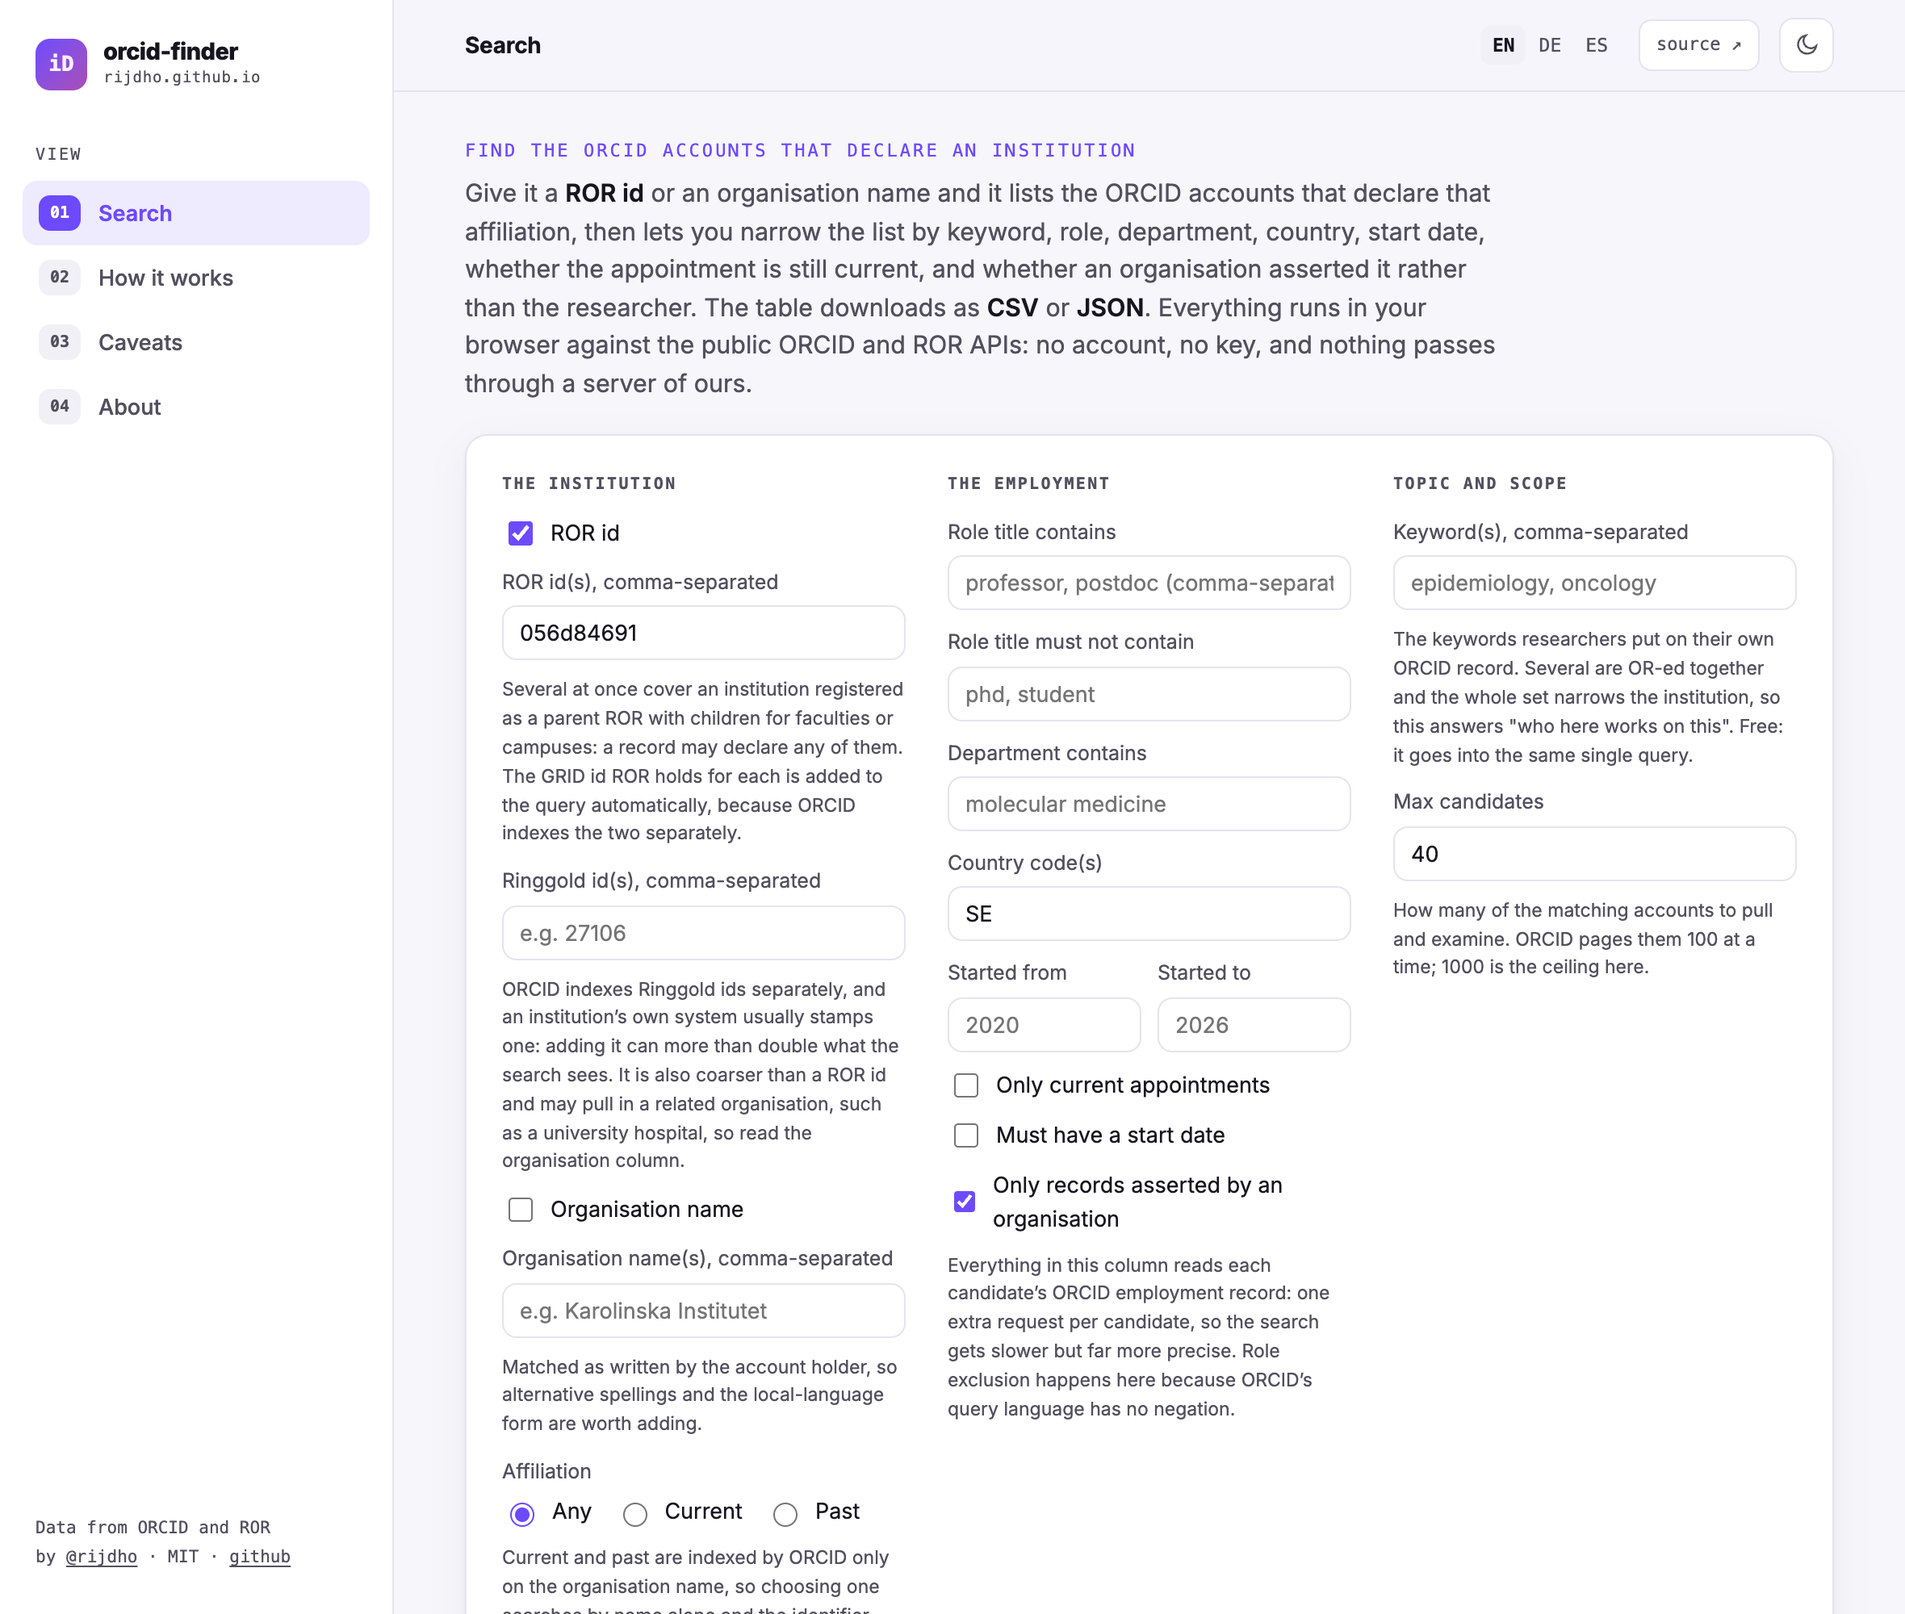
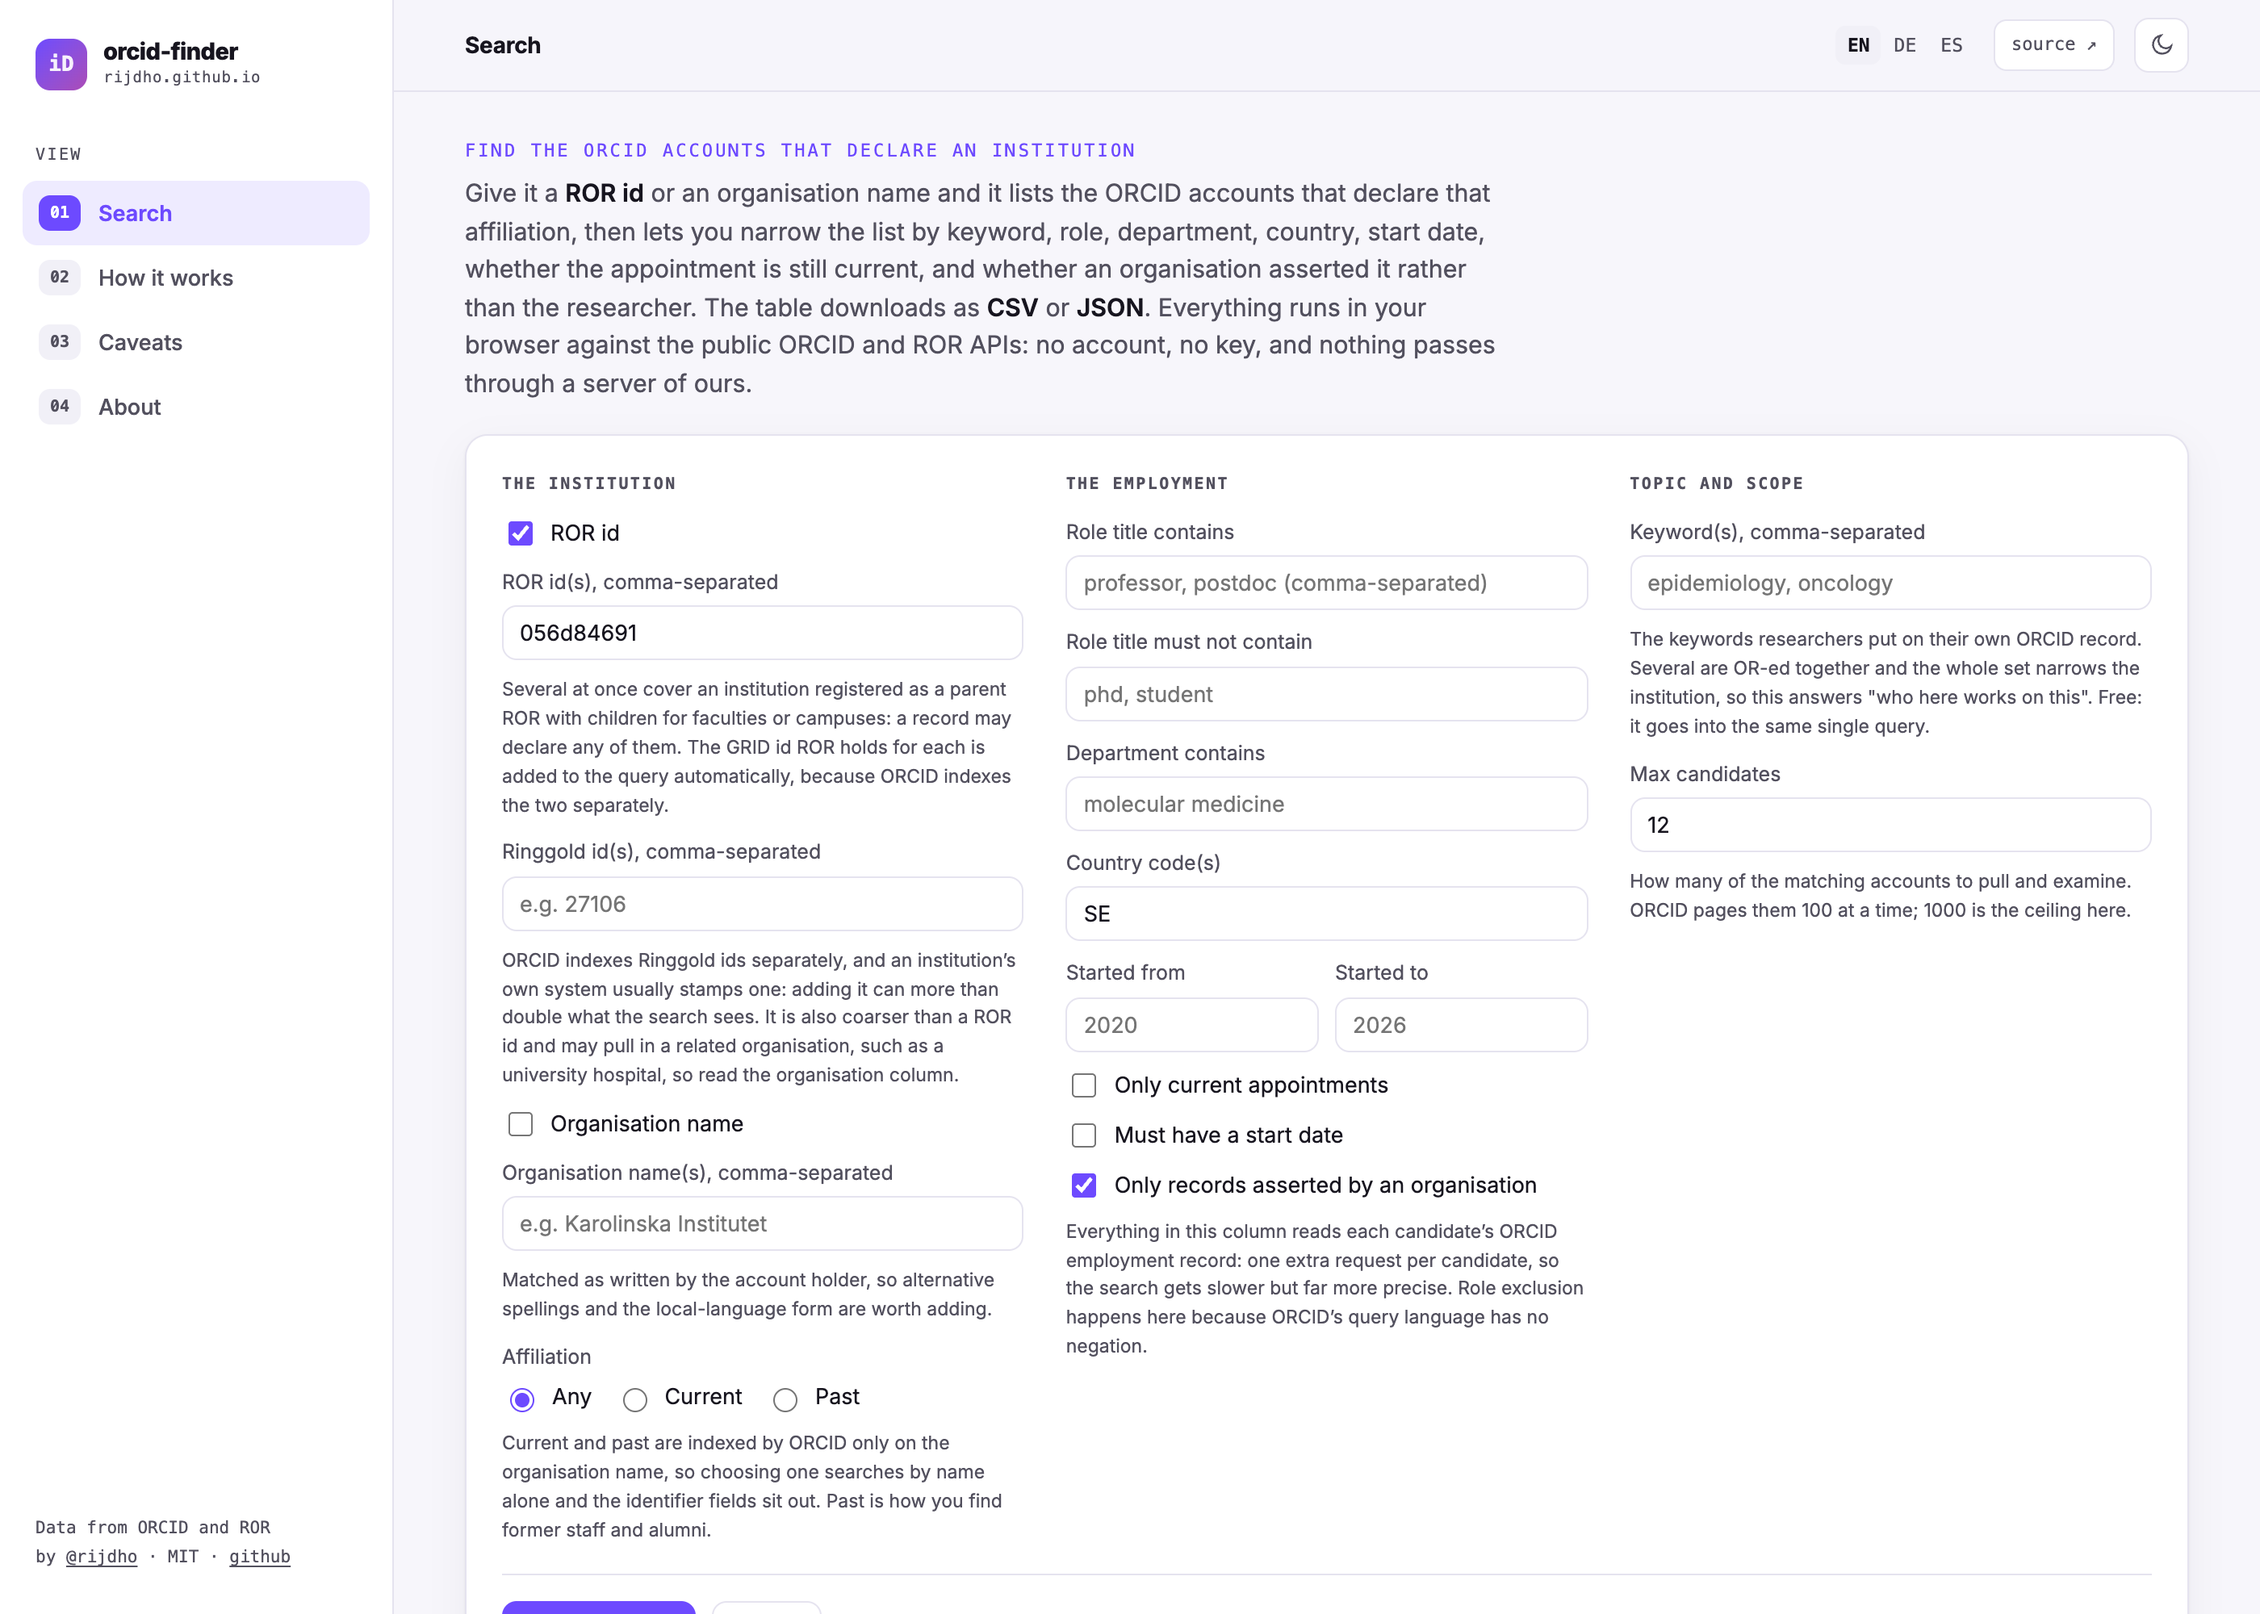
Remove the dead code the audit found, and pin the audit as tests
Four orphans, none of them harmful and all of them noise:

  ORCID_RE      carried over from the code this tool was lifted out of, and
                referenced nowhere since.
  childIds      written for a parent/child ROR expansion that was never built.
                It even had a test, which is the worse case: a tested function
                nobody calls reads as load-bearing.
  .muted        copied in with the shell stylesheet, never applied.
  isValidRor    orphaned when the validation moved into validateOptions, which
                had grown its own copy of the rule. validateOptions now calls
                the exported helper, so a valid ROR id has one definition again.

The audit is now four tests rather than a thing someone remembers to do. Each
one catches a failure that is silent at runtime: an element id the script reads
but the page does not have throws during module evaluation and blanks the page,
which is exactly how the cache-busting bug presented; a badge class with no rule
renders as an unstyled pill that reads like a glitch; a locale key nobody asks
for gets translated three times and shown never. All four were confirmed by
injecting the defect they claim to catch.

The screenshots were shot at 1180 pixels, where the nine-column result table
scrolls its last column out of frame, so the image had stopped supporting the
alt text describing it. They are shot at 1400 now, a normal laptop width where
[…]

diff --git a/src/discover.js b/src/discover.js
@@ -21,8 +21,6 @@ import { fetchRorFacts } from './ror.js?v=4';
 /** A ROR id is nine characters, starts with 0, and uses a crockford-ish alphabet. */
 export const ROR_RE = /^0[a-hj-km-np-z0-9]{8}$/;
 
-export const ORCID_RE = /^\d{4}-\d{4}-\d{4}-\d{3}[\dX]$/;
-
 /** A Ringgold id is a bare number. They run to eight digits today. */
 export const RINGGOLD_RE = /^\d{1,9}$/;
 
@@ -152,7 +150,7 @@ export function activeCriteria(o) {
  */
 export function validateOptions(o) {
   const opts = normaliseOptions(o);
-  const badRor = opts.rors.find((r) => !ROR_RE.test(r));
+  const badRor = opts.rors.find((r) => !isValidRor(r));
   if (badRor) return { key: 'badRor', id: badRor };
   const badRinggold = opts.ringgolds.find((r) => !RINGGOLD_RE.test(r));
   if (badRinggold) return { key: 'badRinggold', id: badRinggold };

diff --git a/src/ror.js b/src/ror.js
@@ -55,14 +55,6 @@ export function gridId(record) {
   return e?.preferred ?? e?.all?.[0] ?? null;
 }
 
-/** The child organisations ROR records for this id, as bare ROR ids. */
-export function childIds(record) {
-  return (record?.relationships ?? [])
-    .filter((r) => r.type === 'child')
-    .map((r) => String(r.id ?? '').replace(/^https?:\/\/ror\.org\//, ''))
-    .filter(Boolean);
-}
-
 /**
  * Resolve one ROR id to the facts the search uses: its registered names and its
  * GRID id. Returns empties rather than throwing when ROR cannot be reached: the

diff --git a/src/i18n/index.js b/src/i18n/index.js
@@ -70,6 +70,10 @@ export function t(key, vars) {
   return str == null ? key : interpolate(str, vars);
 }
 
+// The two helpers below are for the test suite, not the page: they live here
+// because the catalogues do, and a lint that ships with the thing it lints does
+// not go stale.
+
 /** Keys present in English but missing from `code`. Empty is the passing state. */
 export function missingKeys(code) {
   const table = LOCALES[code] ?? {};

diff --git a/style.css b/style.css
@@ -101,7 +101,6 @@ a { color: var(--brand); text-underline-offset: 2px; }
 code { font-family: var(--mono); font-size: 0.9em; }
 h1, h2, h3 { font-family: var(--disp); font-weight: 800; letter-spacing: -0.02em; text-wrap: balance; }
 .mono { font-family: var(--mono); }
-.muted { color: var(--ink-2); }
 .eyebrow {
   font-family: var(--mono); font-size: 11px; letter-spacing: 0.14em; text-transform: uppercase;
   color: var(--brand); margin: 0;

diff --git a/README.md b/README.md
@@ -16,9 +16,9 @@ Caveats say where that answer stops.
 
 Available in **English, German and Spanish** (auto-detected from the browser, switchable).
 
-![The tool on arrival: a rail listing Search, How it works, Caveats and About, and a three-column
-filter panel holding ROR id 056d84691, country code SE and "Only records asserted by an
-organisation" ticked, with max candidates set to 40.](docs/app.png)
+![The tool on arrival: a rail listing Search, How it works, Caveats and About, and a
+three-column filter panel holding ROR id 056d84691, country code SE and "Only records asserted
+by an organisation" ticked, with max candidates set to 12.](docs/app.png)
 
 ## What it does
 
@@ -89,10 +89,9 @@ Every count of what a filter dropped is attributed to the filter that actually d
 using the stage the candidate reached. Without that, a filter doing nothing looks identical to
 one doing all the work.
 
-![The results card for ROR 056d84691 in full mode: 3 kept of 40 candidates examined, ORCID
-reports 4,206 matching accounts, the filters dropped 6 with no affiliation match and 31 as
-self-asserted only, and all three kept rows are asserted by Karolinska
-Institutet.](docs/results.png)
+![The results card for ROR 056d84691 in full mode: 8 kept of 12 candidates examined, ORCID
+reports 5,318 matching accounts once the GRID id is OR-ed into the query, 4 dropped as
+self-asserted only, and every kept row asserted by Karolinska Institutet.](docs/results.png)
 
 ## Who asserted the record
 
@@ -222,7 +221,7 @@ ships:
 
 ```bash
 npm i puppeteer
-node docs/screenshots.mjs docs "http://localhost:8777/?ror=056d84691&byName=0&max=40&asserted=1&country=SE&lang=en"
+node docs/screenshots.mjs docs "http://localhost:8777/?ror=056d84691&byName=0&max=12&asserted=1&country=SE&lang=en"
 ```
 
 ## Deploy
